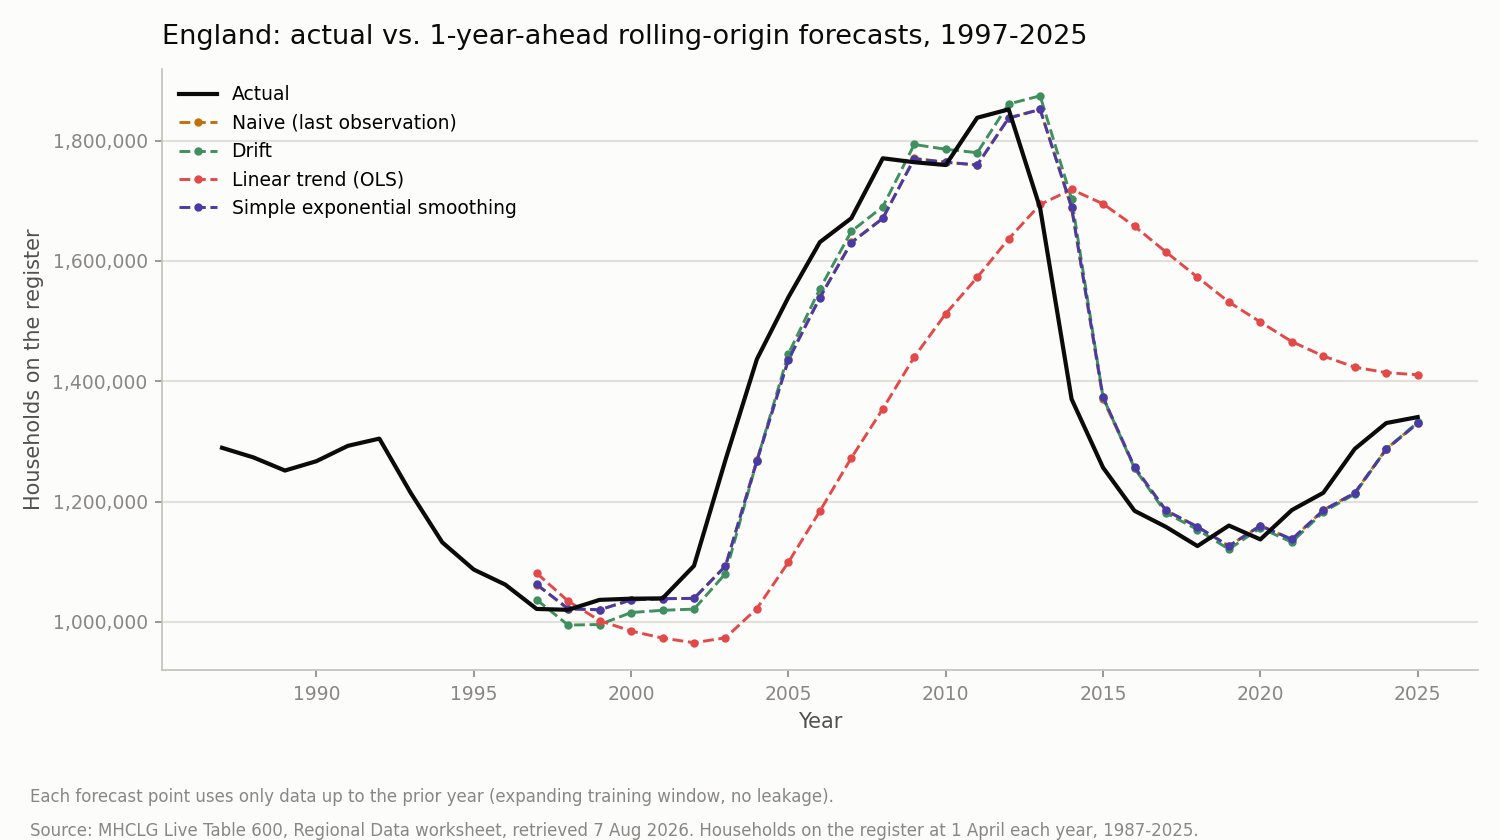
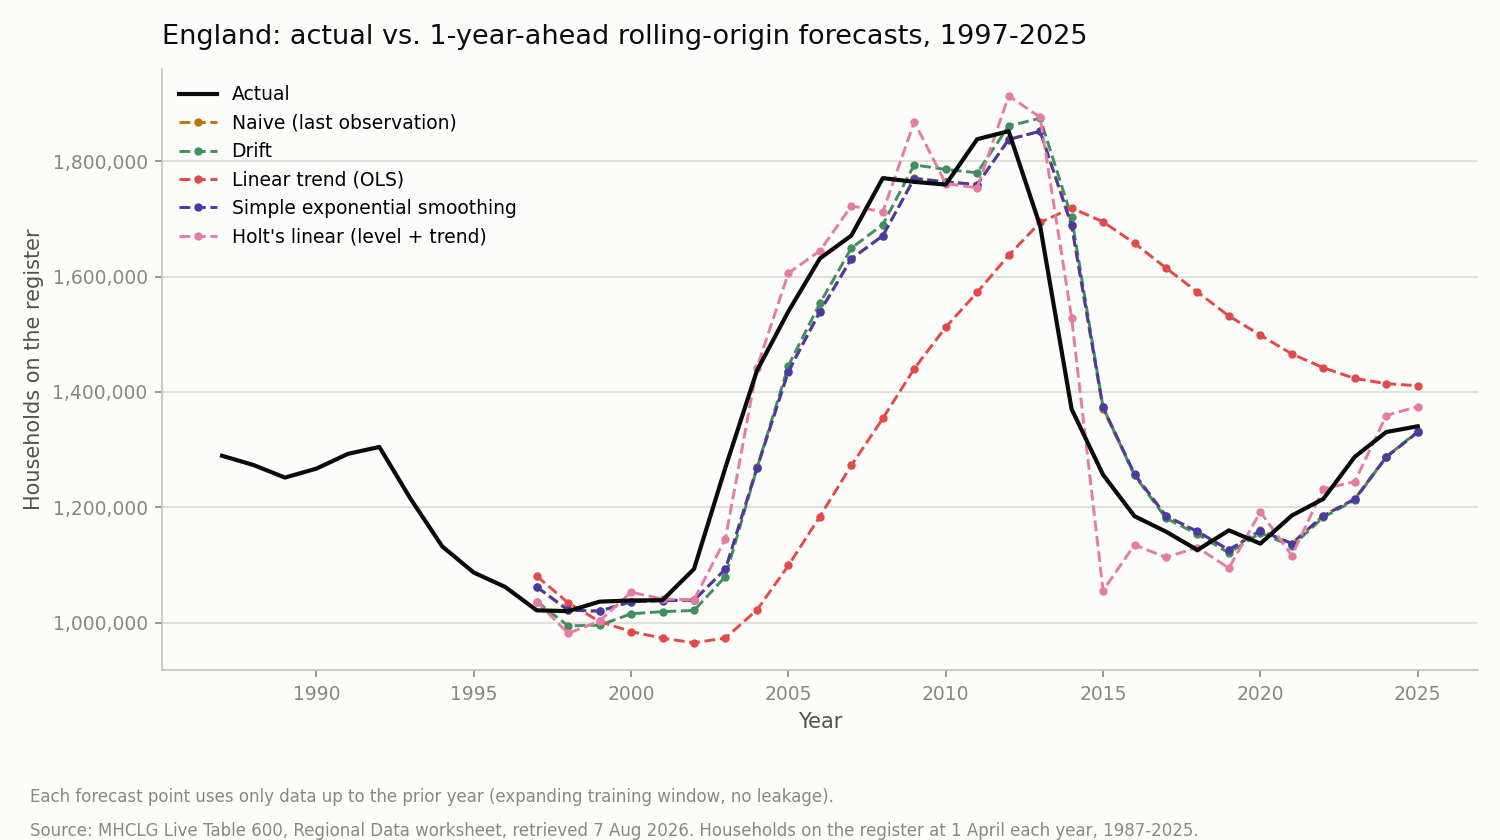
Add Holt's linear exponential smoothing as a fifth benchmark
Extends the backtest with a trend-aware smoother (level + trend, both
grid-searched on in-sample SSE, no leakage) - the natural next step after
plain SES showed no interior smoothing benefit on this series. Holt wins
clearly at the 1-year horizon (MAPE 4.25% vs. naive's 4.71%, bias shrinks
from -9,598 to -1,501) by capturing the post-2020 upturn, but becomes the
worst model at 5-year horizon (31.36% MAPE) because its trend term
overshoots badly at cycle turning points. Confirms no single benchmark
dominates across all horizons on this series.

diff --git a/scripts/forecast_national.py b/scripts/forecast_national.py
@@ -2,7 +2,7 @@
 """Week 2 national forecasting & rolling-origin backtesting for MHCLG Live Table 600.
 
 Loads the validated England-total series (Area code E92000001) from
-data/processed/regional_waiting_lists_long.csv, fits four dependency-light
+data/processed/regional_waiting_lists_long.csv, fits five dependency-light
 benchmark forecasting models, evaluates them with leakage-free rolling-origin
 ("walk-forward") backtesting at 1/2/3/5-year horizons, writes result CSVs to
 outputs/, and produces two comparison charts under outputs/figures/.
@@ -16,6 +16,9 @@ Models (all pure Python, no third-party forecasting libraries):
   - ses        : simple exponential smoothing; forecast is flat at the
                  fitted level, with alpha grid-searched (0.01-0.99) to
                  minimise in-sample SSE on the training window only.
+  - holt       : Holt's linear (double) exponential smoothing; forecast is
+                 the fitted level plus h * fitted trend, with (alpha, beta)
+                 jointly grid-searched (0.01-0.99 each) on in-sample SSE.
 
 Backtesting design (see docs/national_forecast_methodology.md for the full
 rationale):
@@ -78,18 +81,21 @@ ORANGE = "#c1720a"   # naive / categorical slot 2
 GREEN = "#3f8f5f"    # drift / categorical slot 3
 RED = "#e34948"      # linear_trend / diverging pole
 VIOLET = "#4a3aa7"   # ses / categorical slot 7
+MAGENTA = "#e87ba4"  # holt / categorical slot 5
 
 MODEL_COLORS = {
     "naive": ORANGE,
     "drift": GREEN,
     "linear_trend": RED,
     "ses": VIOLET,
+    "holt": MAGENTA,
 }
 MODEL_LABELS = {
     "naive": "Naive (last observation)",
     "drift": "Drift",
     "linear_trend": "Linear trend (OLS)",
     "ses": "Simple exponential smoothing",
+    "holt": "Holt's linear (level + trend)",
 }
 
 
@@ -189,11 +195,57 @@ def ses_forecast(train_years, train_values, horizons):
     return {h: level for h in horizons}
 
 
+def holt_level_trend(train_values, alpha, beta):
+    """Run Holt's linear (double exponential smoothing) recursion; return (level, trend)."""
+    level = train_values[0]
+    trend = train_values[1] - train_values[0] if len(train_values) > 1 else 0.0
+    for y in train_values[1:]:
+        new_level = alpha * y + (1 - alpha) * (level + trend)
+        new_trend = beta * (new_level - level) + (1 - beta) * trend
+        level, trend = new_level, new_trend
+    return level, trend
+
+
+def holt_in_sample_sse(train_values, alpha, beta):
+    """One-step-ahead in-sample SSE for a given (alpha, beta) pair (training data only)."""
+    level = train_values[0]
+    trend = train_values[1] - train_values[0] if len(train_values) > 1 else 0.0
+    sse = 0.0
+    for y in train_values[1:]:
+        sse += (y - (level + trend)) ** 2
+        new_level = alpha * y + (1 - alpha) * (level + trend)
+        new_trend = beta * (new_level - level) + (1 - beta) * trend
+        level, trend = new_level, new_trend
+    return sse
+
+
+def holt_forecast(train_years, train_values, horizons):
+    """Holt's linear exponential smoothing; forecast = fitted level + h * fitted trend.
+
+    Unlike ses_forecast, this has a trend term, so it can extrapolate a slope rather
+    than a flat level. (alpha, beta) are chosen by a joint grid search (0.01-0.99,
+    step 0.01 each) minimising one-step-ahead in-sample SSE on the training window
+    only - no leakage, same principle as ses_forecast's alpha search.
+    """
+    best_params, best_sse = (0.5, 0.5), float("inf")
+    for ai in range(1, 100):
+        alpha = ai / 100
+        for bi in range(1, 100):
+            beta = bi / 100
+            sse = holt_in_sample_sse(train_values, alpha, beta)
+            if sse < best_sse:
+                best_sse = sse
+                best_params = (alpha, beta)
+    level, trend = holt_level_trend(train_values, *best_params)
+    return {h: level + h * trend for h in horizons}
+
+
 MODELS = {
     "naive": naive_forecast,
     "drift": drift_forecast,
     "linear_trend": linear_trend_forecast,
     "ses": ses_forecast,
+    "holt": holt_forecast,
 }
 
 

diff --git a/docs/national_forecast_methodology.md b/docs/national_forecast_methodology.md
@@ -9,7 +9,7 @@
 
 **Outputs:**
 - `outputs/model_results.csv` — MAE / RMSE / MAPE / mean-error bias per model per horizon (the headline results table).
-- `outputs/backtest_predictions.csv` — every individual backtest forecast (436 rows: model x origin x horizon), for transparency and re-analysis.
+- `outputs/backtest_predictions.csv` — every individual backtest forecast (545 rows: model x origin x horizon), for transparency and re-analysis.
 - `outputs/national_forecast_2026_2030.csv` — illustrative 2026-2030 forecast from each model fit on the full 1987-2025 series (not itself backtested — see Limitations).
 - `outputs/figures/backtest_one_step_ahead.png` — actual series vs. each model's 1-year-ahead rolling-origin forecast.
 - `outputs/figures/backtest_mape_by_horizon.png` — MAPE by model, grouped by horizon.
@@ -18,7 +18,7 @@
 
 ### 1.1 Models
 
-Four dependency-light benchmarks, all pure Python (no forecasting libraries):
+Five dependency-light benchmarks, all pure Python (no forecasting libraries):
 
 | Model | Definition |
 | --- | --- |
@@ -26,8 +26,9 @@ Four dependency-light benchmarks, all pure Python (no forecasting libraries):
 | `drift` | Forecast = last value + h x average historical slope, where the slope is `(last value - first value) / (n - 1)` over the training window (Hyndman & Athanasopoulos's drift method). |
 | `linear_trend` | Ordinary-least-squares straight line fit to `households_on_register` against calendar year over the training window, extrapolated h years past the origin. |
 | `ses` | Simple exponential smoothing: forecast is flat at the fitted level (no trend term). The smoothing parameter alpha is chosen per origin by a grid search (0.01-0.99, step 0.01) minimising one-step-ahead in-sample SSE on the training window only — no test/future data is used in this selection, so it does not introduce leakage. |
+| `holt` | Holt's linear (double) exponential smoothing: forecast = fitted level + h x fitted trend. Unlike `ses`, this has an explicit trend term that is itself smoothed. (alpha, beta) are jointly grid-searched (0.01-0.99 each, 9,801 combinations) minimising one-step-ahead in-sample SSE on the training window only — same no-leakage principle as `ses`. |
 
-`naive`, `drift`, and `linear_trend` were the three benchmarks required before any additional package could be requested (session scope). `ses` was added afterwards as a fourth benchmark, still with no third-party dependency, following on from this note's original recommendation to test a statistical smoothing method against the same backtest harness before considering a package-dependent model (ARIMA, Holt-Winters, etc.).
+`naive`, `drift`, and `linear_trend` were the three benchmarks required before any additional package could be requested (session scope). `ses` was added afterwards as a fourth benchmark, still with no third-party dependency, following on from this note's original recommendation to test a statistical smoothing method against the same backtest harness before considering a package-dependent model (ARIMA, Holt-Winters, etc.). `holt` was added as a fifth benchmark immediately after, specifically because the `ses` results (§2, Finding 2) showed that a level-only smoother could not usefully separate "recent level" from "ongoing trend" on this series — Holt's method adds exactly that missing trend term while remaining dependency-light.
 
 ### 1.2 Rolling-origin backtesting design
 
@@ -56,40 +57,46 @@ From `outputs/model_results.csv`:
 | drift | 1y | 29 | 68,236 | 98,010 | 5.03% | -9,187 |
 | linear_trend | 1y | 29 | 259,259 | 303,462 | 19.16% | +933 |
 | ses | 1y | 29 | 65,415 | 95,417 | 4.75% | -9,683 |
+| holt | 1y | 29 | 58,121 | 77,686 | 4.25% | -1,501 |
 | naive | 2y | 28 | 125,174 | 176,067 | 9.03% | -20,975 |
 | drift | 2y | 28 | 133,089 | 187,093 | 9.82% | -20,202 |
 | linear_trend | 2y | 28 | 309,472 | 357,324 | 22.71% | -10,452 |
 | ses | 2y | 28 | 125,607 | 176,609 | 9.06% | -21,046 |
+| holt | 2y | 28 | 125,117 | 175,624 | 9.25% | -7,319 |
 | naive | 3y | 27 | 183,588 | 247,374 | 13.32% | -31,658 |
 | drift | 3y | 27 | 197,251 | 269,958 | 14.71% | -30,450 |
 | linear_trend | 3y | 27 | 362,839 | 412,748 | 26.41% | -23,251 |
 | ses | 3y | 27 | 184,108 | 247,833 | 13.36% | -31,705 |
+| holt | 3y | 27 | 195,870 | 281,499 | 14.74% | -18,374 |
 | naive | 5y | 25 | 306,435 | 371,023 | 22.10% | -47,200 |
 | drift | 5y | 25 | 352,355 | 427,036 | 25.89% | -43,989 |
 | linear_trend | 5y | 25 | 477,815 | 524,069 | 34.16% | -53,558 |
 | ses | 5y | 25 | 306,809 | 371,382 | 22.12% | -47,220 |
+| holt | 5y | 25 | 416,668 | 509,188 | 31.36% | -38,569 |
 
 **Headline findings:**
 
-1. **Naive and SES are essentially tied for best model, both clearly ahead of drift, and all three well ahead of linear trend, at every single horizon.** This holds on MAE, RMSE and MAPE without exception. Naive edges out SES by only 0.02-0.04 MAPE percentage points at every horizon; the gap to drift is larger (0.3-3.8 points), and the gap to linear trend is large throughout (3-4x naive's MAPE at every horizon).
-2. **SES converges to an alpha of 0.99 — the edge of the search grid — at every single one of the 30 backtest origins.** This means the in-sample-SSE-optimal smoothing parameter is pushed as high as the grid allows, so SES's fitted level tracks almost the entire weight onto the most recent observation, which is why its forecasts and errors are nearly indistinguishable from naive's (visible in `outputs/figures/backtest_one_step_ahead.png`, where the violet SES line sits almost exactly on top of the orange naive line throughout). This is a real property of the series, not a bug: because the series exhibits strong persistence with large trend-driven swings rather than noise around a stable level, there is no interior alpha that smooths away meaningful noise without also lagging genuine level shifts, so the optimiser keeps pushing toward alpha=1 (pure naive). A plain SES with no trend term is not well suited to this series; a trend-aware variant (e.g. Holt's linear method) would be a more informative next comparison but was out of scope for this dependency-light pass.
-3. **The linear-trend model is a poor fit for this series and should not be used as-is.** England's waiting-list count is not a monotonic trend — it traces two broad cycles (fall to a 1998 trough, rise to a 2012 peak, fall to a ~2018 trough, renewed rise to 2025; see `docs/initial_eda_findings.md`). A straight line fit to an expanding window systematically lags each turning point, which is visible directly in `outputs/figures/backtest_one_step_ahead.png` — the red linear-trend line is still climbing years after the actual series has turned down, and vice versa.
-4. **Naive and drift are close because the series' average historical drift is close to flat.** Over the full 1987-2025 window the endpoints are similar (1,289,492 to 1,340,527, +4.0%), so the drift model's slope term is small and it behaves similarly to a flat carry-forward; this would not necessarily hold if evaluated from a different pair of endpoints.
-5. **All models degrade sharply as horizon lengthens**, as expected: naive's MAPE rises from 4.7% (1-year) to 22.1% (5-year). This is a real property of the series' volatility (year-on-year swings of up to +16.1%/-18.8% are documented in `docs/initial_eda_findings.md`), not an artefact of the backtest design.
-6. **All four models are negatively biased (under-forecast) at every horizon except linear-trend's near-zero 1-year bias**, consistent with the series' strong renewed growth since 2020 outpacing what a model trained mostly on earlier, flatter or falling periods would expect.
+1. **No single model wins at every horizon — Holt is best at 1-year but worst (or near-worst) at 5-year.** At 1-year, Holt has the lowest MAE, RMSE and MAPE of all five models (58,121 / 77,686 / 4.25%, vs. naive's 64,900 / 94,773 / 4.71%) and by far the smallest bias (-1,501 vs. naive's -9,598) — its trend term captures the post-2020 renewed rise that the flat models lag behind on. But that same trend term compounds badly at longer horizons: by 5-year, Holt's MAPE (31.36%) is worse than drift's (25.89%) and close to linear-trend's (34.16%), the worst of the five. This is visible directly in `outputs/figures/backtest_one_step_ahead.png` — the pink Holt line overshoots furthest above the actual series around the 2009-2013 peak and undershoots furthest below it around 2014-2015, both classic symptoms of extrapolating an estimated trend straight through a turning point.
+2. **Naive and SES remain essentially tied for best at the 2-, 3- and 5-year horizons**, both clearly ahead of drift, and all three comfortably ahead of linear trend throughout. Naive edges out SES by 0.02-0.04 MAPE percentage points at every horizon; the gap to drift is larger (0.3-3.8 points), and the gap to linear trend is large throughout (3-4x naive's MAPE at every horizon).
+3. **SES converges to an alpha of 0.99 — the edge of the search grid — at every single one of the 30 backtest origins.** This means the in-sample-SSE-optimal smoothing parameter is pushed as high as the grid allows, so SES's fitted level tracks almost the entire weight onto the most recent observation, which is why its forecasts and errors are nearly indistinguishable from naive's (visible in `outputs/figures/backtest_one_step_ahead.png`, where the violet SES line sits almost exactly on top of the orange naive line throughout). This is a real property of the series, not a bug: because the series exhibits strong persistence with large trend-driven swings rather than noise around a stable level, there is no interior alpha that smooths away meaningful noise without also lagging genuine level shifts, so the optimiser keeps pushing toward alpha=1 (pure naive).
+4. **The linear-trend model is a poor fit for this series and should not be used as-is.** England's waiting-list count is not a monotonic trend — it traces two broad cycles (fall to a 1998 trough, rise to a 2012 peak, fall to a ~2018 trough, renewed rise to 2025; see `docs/initial_eda_findings.md`). A straight line fit to an expanding window systematically lags each turning point, which is visible directly in `outputs/figures/backtest_one_step_ahead.png` — the red linear-trend line is still climbing years after the actual series has turned down, and vice versa.
+5. **Naive and drift are close because the series' average historical drift is close to flat.** Over the full 1987-2025 window the endpoints are similar (1,289,492 to 1,340,527, +4.0%), so the drift model's slope term is small and it behaves similarly to a flat carry-forward; this would not necessarily hold if evaluated from a different pair of endpoints.
+6. **All models degrade sharply as horizon lengthens**, as expected: naive's MAPE rises from 4.7% (1-year) to 22.1% (5-year). This is a real property of the series' volatility (year-on-year swings of up to +16.1%/-18.8% are documented in `docs/initial_eda_findings.md`), not an artefact of the backtest design. Holt is the exception to "degrades gradually" — its error grows faster than the others' between 3- and 5-year (MAPE +16.6 points vs. naive's +8.8), consistent with Finding 1.
+7. **All five models are negatively biased (under-forecast) at every horizon except linear-trend's near-zero 1-year bias**, consistent with the series' strong renewed growth since 2020 outpacing what a model trained mostly on earlier, flatter or falling periods would expect. Holt's bias is consistently the smallest in magnitude of the four negatively-biased models at every horizon, again reflecting its trend term picking up the recent rise fastest.
 
 See `outputs/figures/backtest_one_step_ahead.png` for the visual comparison and `outputs/figures/backtest_mape_by_horizon.png` for the MAPE-by-horizon summary.
 
 ## 3. Illustrative 2026-2030 forecast
 
-`outputs/national_forecast_2026_2030.csv` fits each model on the **full** 1987-2025 series (not backtested) and extrapolates. This is included as a direct, natural output of "create a national forecasting script," not as a validated prediction — given naive/SES's ~5% 1-year and ~22% 5-year MAPE in backtesting, and drift's and linear-trend's larger errors, any of these forecasts should be treated as a wide-uncertainty benchmark rather than a point estimate to plan against. In particular, linear-trend's 2026-2030 path (rising from ~1.41m to ~1.43m) should be read with the caveat in Finding 3 above, and SES's flat ~1,340,423 forecast (essentially identical to naive's flat 1,340,527) should be read with the alpha=0.99 boundary-solution caveat in Finding 2.
+`outputs/national_forecast_2026_2030.csv` fits each model on the **full** 1987-2025 series (not backtested) and extrapolates. This is included as a direct, natural output of "create a national forecasting script," not as a validated prediction — given naive/SES's ~4-5% 1-year and ~22% 5-year MAPE in backtesting, Holt's much lower 1-year but much higher 5-year MAPE, and drift's and linear-trend's larger errors throughout, any of these forecasts should be treated as a wide-uncertainty benchmark rather than a point estimate to plan against. In particular: linear-trend's 2026-2030 path (rising from ~1.41m to ~1.43m) should be read with the caveat in Finding 4 above; SES's flat ~1,340,423 forecast (essentially identical to naive's flat 1,340,527) should be read with the alpha=0.99 boundary-solution caveat in Finding 3; and Holt's path (rising from ~1.35m in 2026 to ~1.39m in 2030) is the model with the strongest 1-year backtested accuracy but the weakest by 5 years out, so its later years in this table carry the least backtested support of the five models, not the most.
 
 ## 4. Limitations
 
-- **Four benchmarks only, no ARIMA, Holt-Winters, or ML models.** Per the session's dependency-light scope, no trend-aware exponential smoothing, seasonal, ARIMA, or regression-with-covariates model was fitted. These benchmarks exist to set a floor that any more complex model should be expected to beat before being adopted; that comparison has not yet been made. Finding 2 specifically suggests a trend-aware smoothing method (Holt's) as the most promising next step, since plain SES cannot separate "recent level" from "ongoing trend" and this series has a strong trend component.
+- **Five benchmarks only, no ARIMA, seasonal, or ML models.** Per the session's dependency-light scope, no seasonal, ARIMA, or regression-with-covariates model was fitted. These benchmarks exist to set a floor that any more complex model should be expected to beat before being adopted; that comparison has not yet been made.
+- **No single model dominates across horizons (Finding 1).** Any downstream use of this work needs to pick a model per horizon rather than adopting one model as "the" forecaster — the best 1-year model (Holt) is one of the worst 5-year models.
 - **Single-series, national-level only.** This backtest evaluates the England total only. It does not extend to the nine regions or to local authorities (which have their own boundary-change and missing-data complications documented in `docs/initial_feasibility_note.md`), and results here should not be assumed to transfer to those series.
 - **Small number of independent 5-year-horizon origins.** 25 origins sounds reasonable, but consecutive origins share almost all of their training data and many overlapping target years, so the backtest is not 25 independent trials — treat the horizon-level MAE/RMSE/MAPE as indicative of relative model performance, not as precise, independent-sample confidence intervals.
-- **No exogenous drivers.** All four models use only the England total's own history. None accounts for policy changes, register "cleanse" events, or economic conditions that `docs/initial_eda_findings.md` and `docs/initial_feasibility_note.md` note can move the reported count for administrative as well as demand-driven reasons. A model unaware of an upcoming cleanse (or its absence) cannot anticipate the resulting swing.
+- **No exogenous drivers.** All five models use only the England total's own history. None accounts for policy changes, register "cleanse" events, or economic conditions that `docs/initial_eda_findings.md` and `docs/initial_feasibility_note.md` note can move the reported count for administrative as well as demand-driven reasons. A model unaware of an upcoming cleanse (or its absence) cannot anticipate the resulting swing.
 - **Backtest window starts in 1996, not 1987.** The `MIN_TRAIN_YEARS = 10` choice means the first nine years of the series (1987-1995) are used only as training data for later origins and never appear as a forecast target — the backtest says nothing about forecast accuracy in that period.
 - **2026-2030 forecast is unvalidated.** As noted in §3, the forward forecast is a direct extrapolation, not a value taken from or checked against the backtest; it is provided for illustration only.
 - **2029 forecast (h=4) has no backtested error rate.** The forward forecast produces every year 2026-2030 (h=1..5), but the backtest only evaluates h∈{1,2,3,5} — h=4 was skipped as a horizon choice (§1.2), so the 2029 row in `national_forecast_2026_2030.csv` isn't backed by an h=4 MAE/RMSE/MAPE the way the other four years are.
